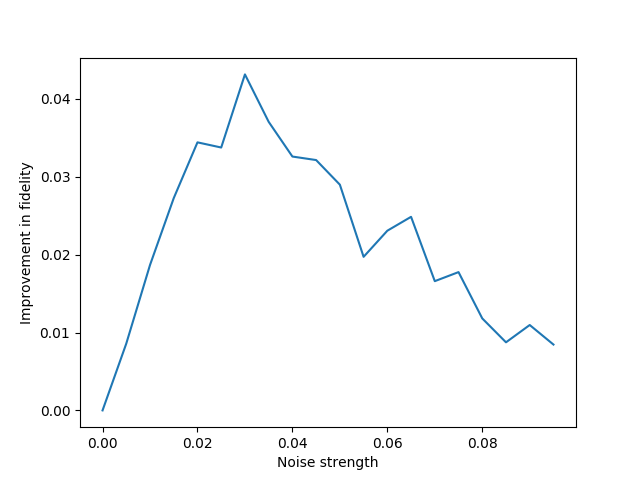
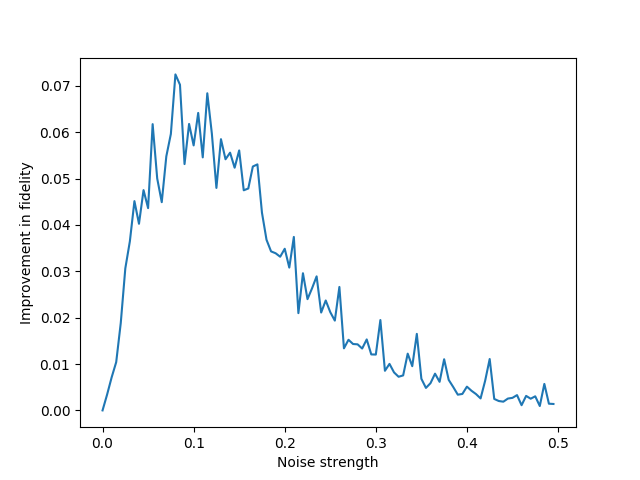
same plot, different parameters

diff --git a/pruning.test.py b/pruning.test.py
@@ -71,8 +71,8 @@ def plot_tolerances():
 
 
 def plot_noise_strength():
-    noises = [0.005 * i for i in range(20)]
-    diffs = [run(3, 10, find_threshold(n), n, 100)[0] for n in noises]
+    noises = [0.005 * i for i in range(100)]
+    diffs = [run(2, 5, find_threshold(n), n, 100)[0] for n in noises]
 
     plt.figure()
     plt.plot(noises, diffs)
